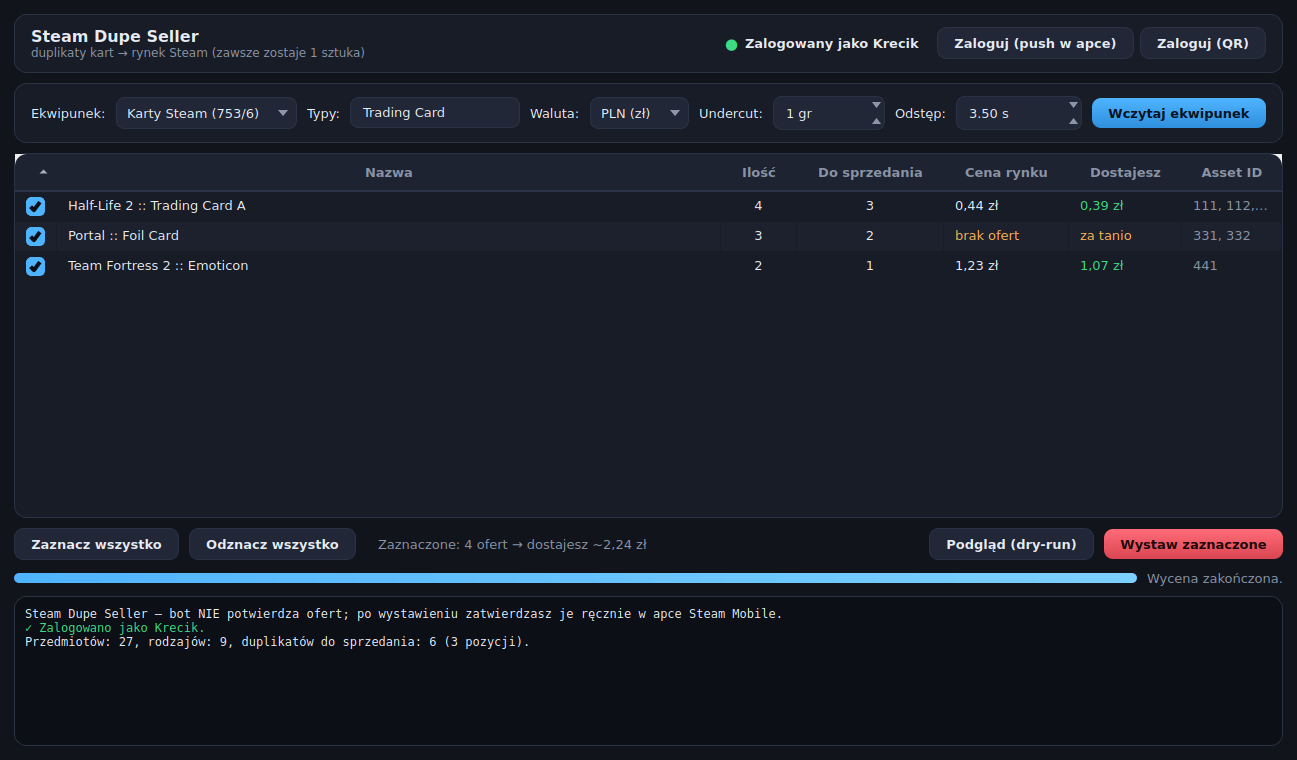
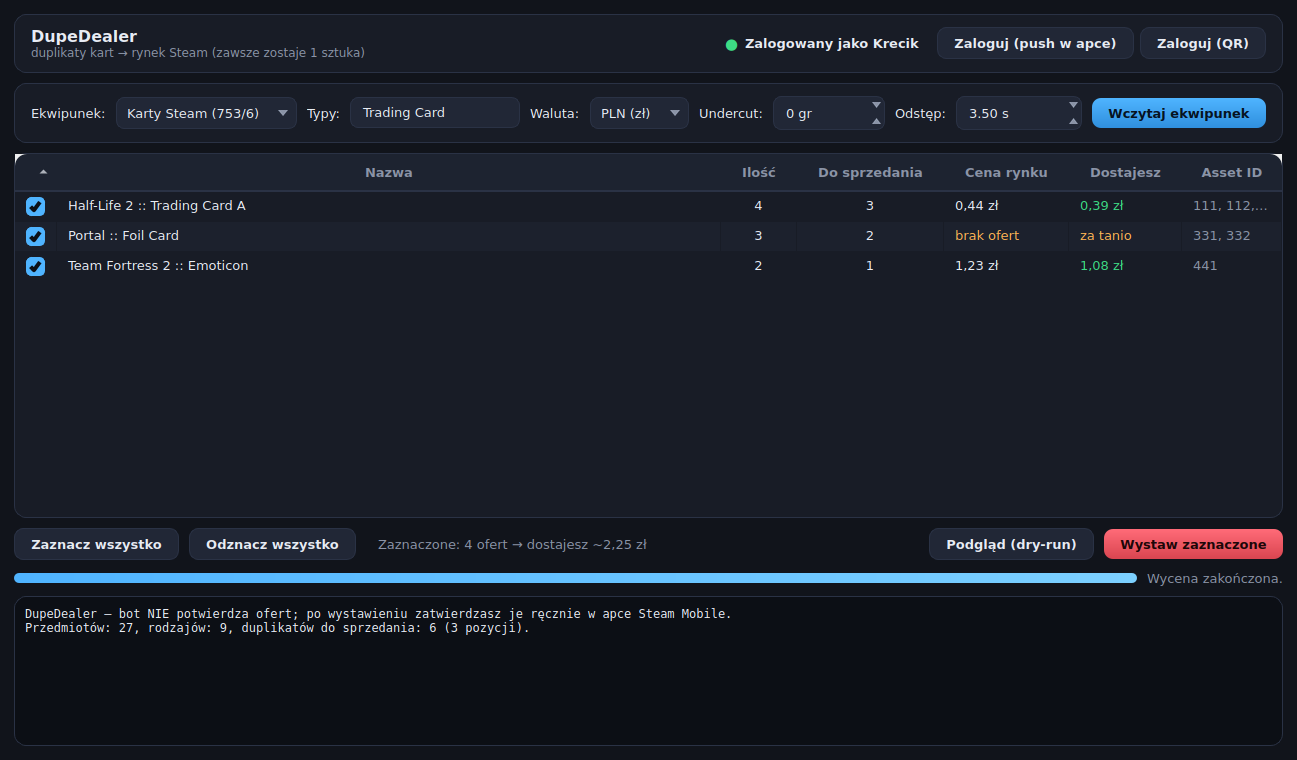
Zmiana nazwy projektu na DupeDealer
- pliki wejściowe: steam_dupe_seller.py -> dupedealer.py,
  steam_seller_gui.py -> dupedealer_gui.py (importy zaktualizowane)
- marka wszędzie: tytuł/okno/README/badge, nazwa .exe (DupeDealer.exe),
  --name w build.bat i workflow, artefakt/tytuł release
- token na Windowsie: %APPDATA%\DupeDealer\, device_friendly_name = DupeDealer
- zaktualizowany zrzut ekranu (docs/screenshot.png)
- helpery opisowe bez zmian: steam_auth.py, gui_theme.py, tiny_qr.py

Changed region(s): [[0.0, 0.7868, 0.586, 0.8474], [0.0308, 0.0303, 0.1542, 0.0605]]

diff --git a/steam_auth.py b/steam_auth.py
@@ -3,7 +3,7 @@
 
 Trzyma refresh token w ~/.steam_refresh_token (przestawialne przez env
 STEAM_TOKEN_FILE albo set_token_path() — GUI na Windowsie używa
-%APPDATA%\\SteamDupeSeller\\refresh_token) i po cichu generuje z niego
+%APPDATA%\\DupeDealer\\refresh_token) i po cichu generuje z niego
 ciasteczko `steamLoginSecure` (bez interakcji). Gdy tokenu brak lub wygasł:
 startuje QR-login, wysyła link Steam na Telegram (otwierasz na telefonie z apką
 Steam -> Zatwierdź), odpytuje aż zatwierdzisz, zapisuje nowy token.
@@ -21,12 +21,12 @@ from steam.protobufs import steammessages_auth_pb2 as A
 
 API = "https://api.steampowered.com/IAuthenticationService/{}/v1/"
 # Ścieżka refresh tokenu: env STEAM_TOKEN_FILE > domyślna linuksowa. GUI na Windowsie
-# przestawia ją przez set_token_path() na %APPDATA%\SteamDupeSeller\refresh_token.
+# przestawia ją przez set_token_path() na %APPDATA%\DupeDealer\refresh_token.
 TOKEN_FILE = os.environ.get("STEAM_TOKEN_FILE") or os.path.expanduser("~/.steam_refresh_token")
 # Opcjonalny plik z sekretami (STEAM_LOGIN/STEAM_PASSWORD/TG_*) w formacie KEY=VALUE.
 # Ścieżkę nadpisujesz env STEAM_SECRETS_FILE; najprościej podać dane wprost przez env.
-SECRETS = os.environ.get("STEAM_SECRETS_FILE") or "/etc/steam-dupe-seller/secrets"
-DEVICE_NAME = "steam-dupe-seller"
+SECRETS = os.environ.get("STEAM_SECRETS_FILE") or "/etc/DupeDealer/secrets"
+DEVICE_NAME = "DupeDealer"
 PLATFORM_WEB = A.k_EAuthTokenPlatformType_WebBrowser  # 2
 OS_WEB = -500  # EOSType Web
 POLL_TIMEOUT = 180  # s na zatwierdzenie w apce

diff --git a/gui_theme.py b/gui_theme.py
@@ -1,4 +1,4 @@
-"""Ciemny motyw (QSS) dla steam_seller_gui.py — bez zewnętrznych pakietów motywów.
+"""Ciemny motyw (QSS) dla dupedealer_gui.py — bez zewnętrznych pakietów motywów.
 
 Paleta: granatowa czerń + steamowy błękit jako akcent. Wszystko zaokrąglone,
 hover/pressed na przyciskach, tabela z naprzemiennymi wierszami i płaskim
@@ -51,7 +51,7 @@ def build_qss(asset_dir=None):
     """Zwraca gotowy arkusz QSS. Ikonki lądują w `asset_dir` (domyślnie podkatalog
     w temp systemu)."""
     if asset_dir is None:
-        asset_dir = os.path.join(tempfile.gettempdir(), "steam_dupe_seller_assets")
+        asset_dir = os.path.join(tempfile.gettempdir(), "dupedealer_assets")
     a = _write_assets(asset_dir)
     return f"""
 * {{

diff --git a/tiny_qr.py b/tiny_qr.py
@@ -2,7 +2,7 @@
 """Minimalny generator kodów QR (byte mode, EC poziom M, wersje 1-10) — zero zależności.
 
 Wystarcza do challenge_url logowania Steam (~40-60 znaków). Używa go GUI
-(steam_seller_gui.py) do narysowania kodu QR, który skanujesz w apce Steam.
+(dupedealer_gui.py) do narysowania kodu QR, który skanujesz w apce Steam.
 Zwraca macierz 0/1 (listy wierszy); rysowanie to sprawa wołającego.
 
 matrix = tiny_qr.encode("https://s.team/q/...")

diff --git a/README.md b/README.md
@@ -1,12 +1,12 @@
 <div align="center">
 
-# 🏷️ Steam Dupe Seller
+# 🏷️ DupeDealer
 
 **Wystawia duplikaty kart i przedmiotów Steam na rynku — zawsze zostawiając po jednej sztuce każdego rodzaju.**
 
 Aplikacja okienkowa na Windows (ciemne GUI) i skrypt CLI. Bez przeglądarki, na czystym `requests`.
 
-[![Pobierz .exe](https://img.shields.io/badge/Pobierz-SteamDupeSeller.exe-4fb4ff?style=for-the-badge)](../../releases/latest)
+[![Pobierz .exe](https://img.shields.io/badge/Pobierz-DupeDealer.exe-4fb4ff?style=for-the-badge)](../../releases/latest)
 &nbsp;
 ![Platforma](https://img.shields.io/badge/Windows-64--bit-2a3245?style=for-the-badge)
 &nbsp;
@@ -53,7 +53,7 @@ bot nigdy nie robi tego za Ciebie.
 
 ## Szybki start (Windows)
 
-1. Pobierz **`SteamDupeSeller.exe`** z [zakładki Releases](../../releases/latest).
+1. Pobierz **`DupeDealer.exe`** z [zakładki Releases](../../releases/latest).
 2. Uruchom. Plik nie jest podpisany, więc SmartScreen może ostrzec —
    „Więcej informacji" → „Uruchom mimo to".
 3. **Zaloguj (push w apce)** lub **Zaloguj (QR)** i zatwierdź logowanie w telefonie.
@@ -61,7 +61,7 @@ bot nigdy nie robi tego za Ciebie.
 5. Zaznacz pozycje → **Podgląd** (nic nie robi) lub **Wystaw zaznaczone**.
 6. Zatwierdź oferty w apce Steam Mobile (Potwierdzenia → Zatwierdź wszystko).
 
-Token logowania zapisze się w `%APPDATA%\SteamDupeSeller\refresh_token`.
+Token logowania zapisze się w `%APPDATA%\DupeDealer\refresh_token`.
 Hasło nie jest zapisywane nigdzie na dysku.
 
 ## Uruchomienie ze źródeł
@@ -71,7 +71,7 @@ Działa tak samo na Windows i Linux:
 ```bash
 python -m venv venv
 venv/bin/pip install -r requirements.txt        # Windows: venv\Scripts\pip
-venv/bin/python steam_seller_gui.py             # Windows: venv\Scripts\python
+venv/bin/python dupedealer_gui.py             # Windows: venv\Scripts\python
 ```
 
 ### Zbudowanie własnego `.exe`
@@ -82,11 +82,11 @@ Na Windowsie z Pythonem 3.10+ w PATH wystarczy:
 build.bat
 ```
 
-Wynik: `dist\SteamDupeSeller.exe` (jeden plik, bez konsoli). Ręczny odpowiednik:
+Wynik: `dist\DupeDealer.exe` (jeden plik, bez konsoli). Ręczny odpowiednik:
 
 ```bat
-pyinstaller --onefile --windowed --icon app.ico --name SteamDupeSeller ^
-    --add-data "app.ico;." --collect-submodules steam.protobufs steam_seller_gui.py
+pyinstaller --onefile --windowed --icon app.ico --name DupeDealer ^
+    --add-data "app.ico;." --collect-submodules steam.protobufs dupedealer_gui.py
 ```
 
 Wersje release'owe buduje GitHub Actions (`.github/workflows/release.yml`) po pushu taga `v*`.
@@ -103,8 +103,8 @@ Wersje release'owe buduje GitHub Actions (`.github/workflows/release.yml`) po pu
 **Domyślnie dry-run** — realnie wystawia dopiero z `--sell`.
 
 ```bash
-python steam_dupe_seller.py            # podgląd: co i za ile by wystawił
-python steam_dupe_seller.py --sell     # realne wystawienie duplikatów
+python dupedealer.py            # podgląd: co i za ile by wystawił
+python dupedealer.py --sell     # realne wystawienie duplikatów
 ```
 
 | Flaga | Domyślnie | Opis |
@@ -123,7 +123,7 @@ Logowanie z linii poleceń: `python steam_auth.py --login` (push) lub `--qr` (ko
 Przykład crona (tygodniowo, bez blokowania na logowanie):
 
 ```cron
-0 12 * * 0 cd ~/steam-dupe-seller && venv/bin/python steam_dupe_seller.py --sell --noninteractive
+0 12 * * 0 cd ~/DupeDealer && venv/bin/python dupedealer.py --sell --noninteractive
 ```
 
 ## Konfiguracja (zmienne środowiskowe)
@@ -133,7 +133,7 @@ Wszystko jest opcjonalne — w GUI dane logowania wpisujesz w okienku.
 | Zmienna | Rola |
 |---------|------|
 | `STEAM_LOGIN`, `STEAM_PASSWORD` | dane do logowania `--login` (dla CLI/crona) |
-| `STEAM_TOKEN_FILE` | ścieżka pliku refresh tokenu (dom. `~/.steam_refresh_token`; Windows GUI: `%APPDATA%\SteamDupeSeller\`) |
+| `STEAM_TOKEN_FILE` | ścieżka pliku refresh tokenu (dom. `~/.steam_refresh_token`; Windows GUI: `%APPDATA%\DupeDealer\`) |
 | `STEAM_SECRETS_FILE` | opcjonalny plik `KEY=VALUE` z powyższymi sekretami |
 | `TG_TOKEN`, `TG_CHAT_ID` | opcjonalne powiadomienia Telegram (bez nich po prostu pomijane) |
 